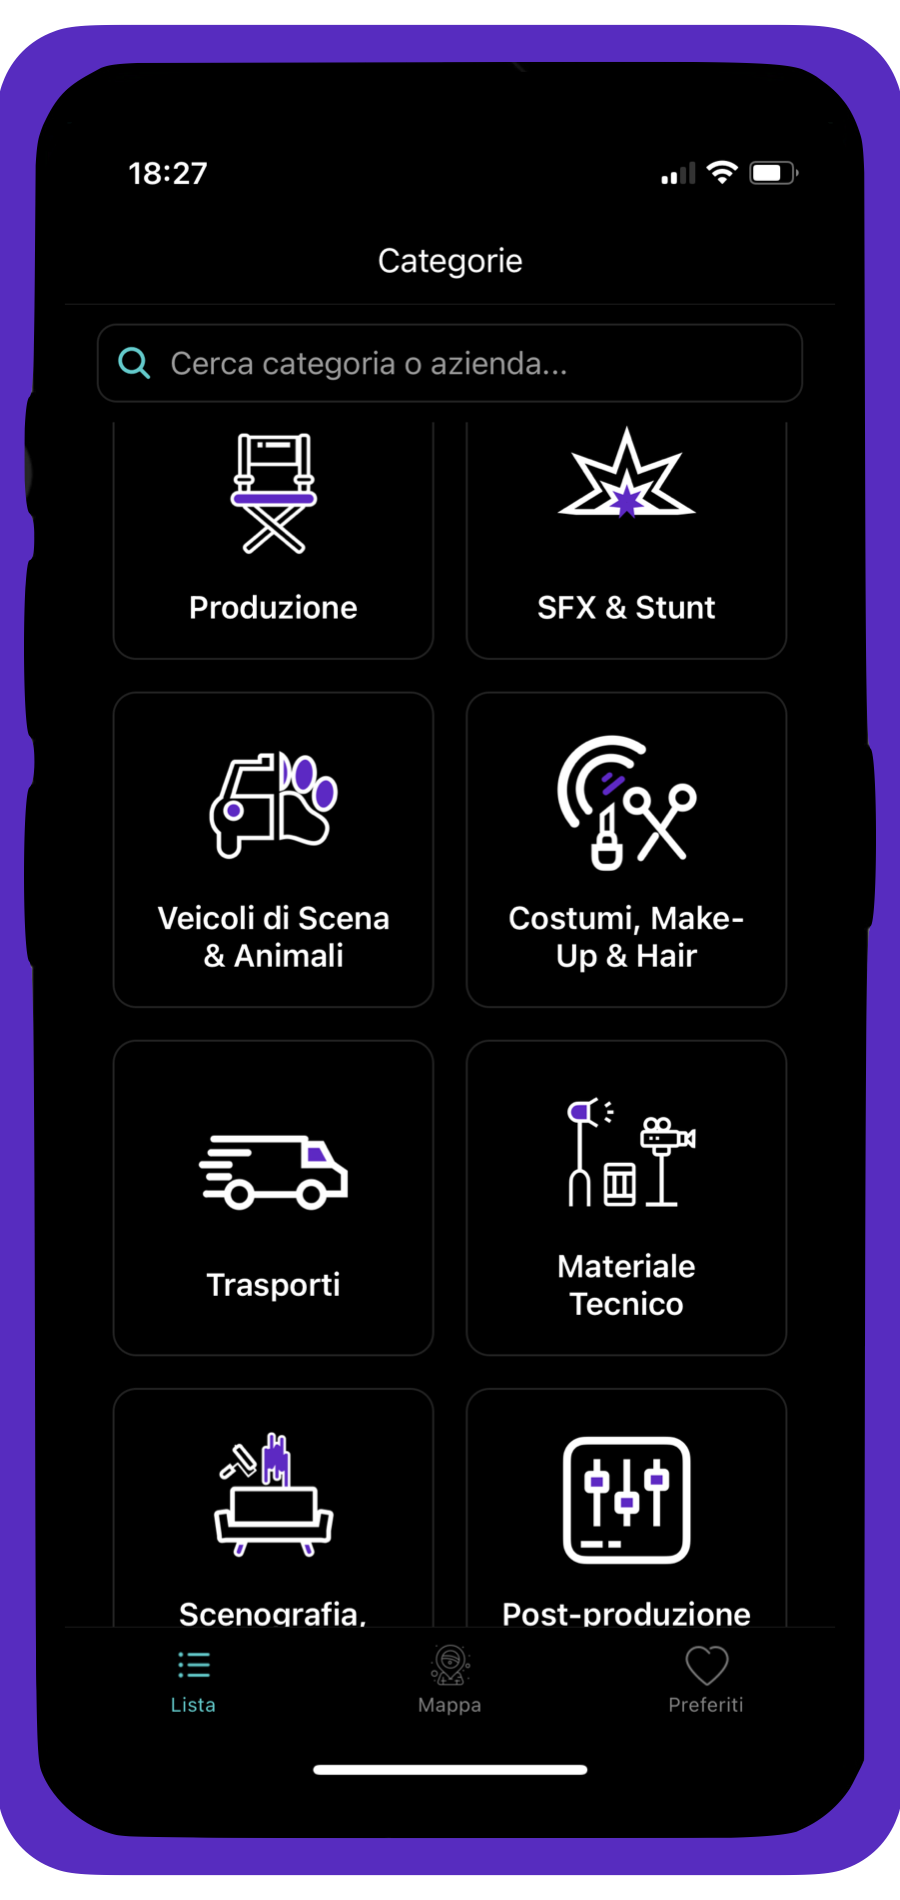
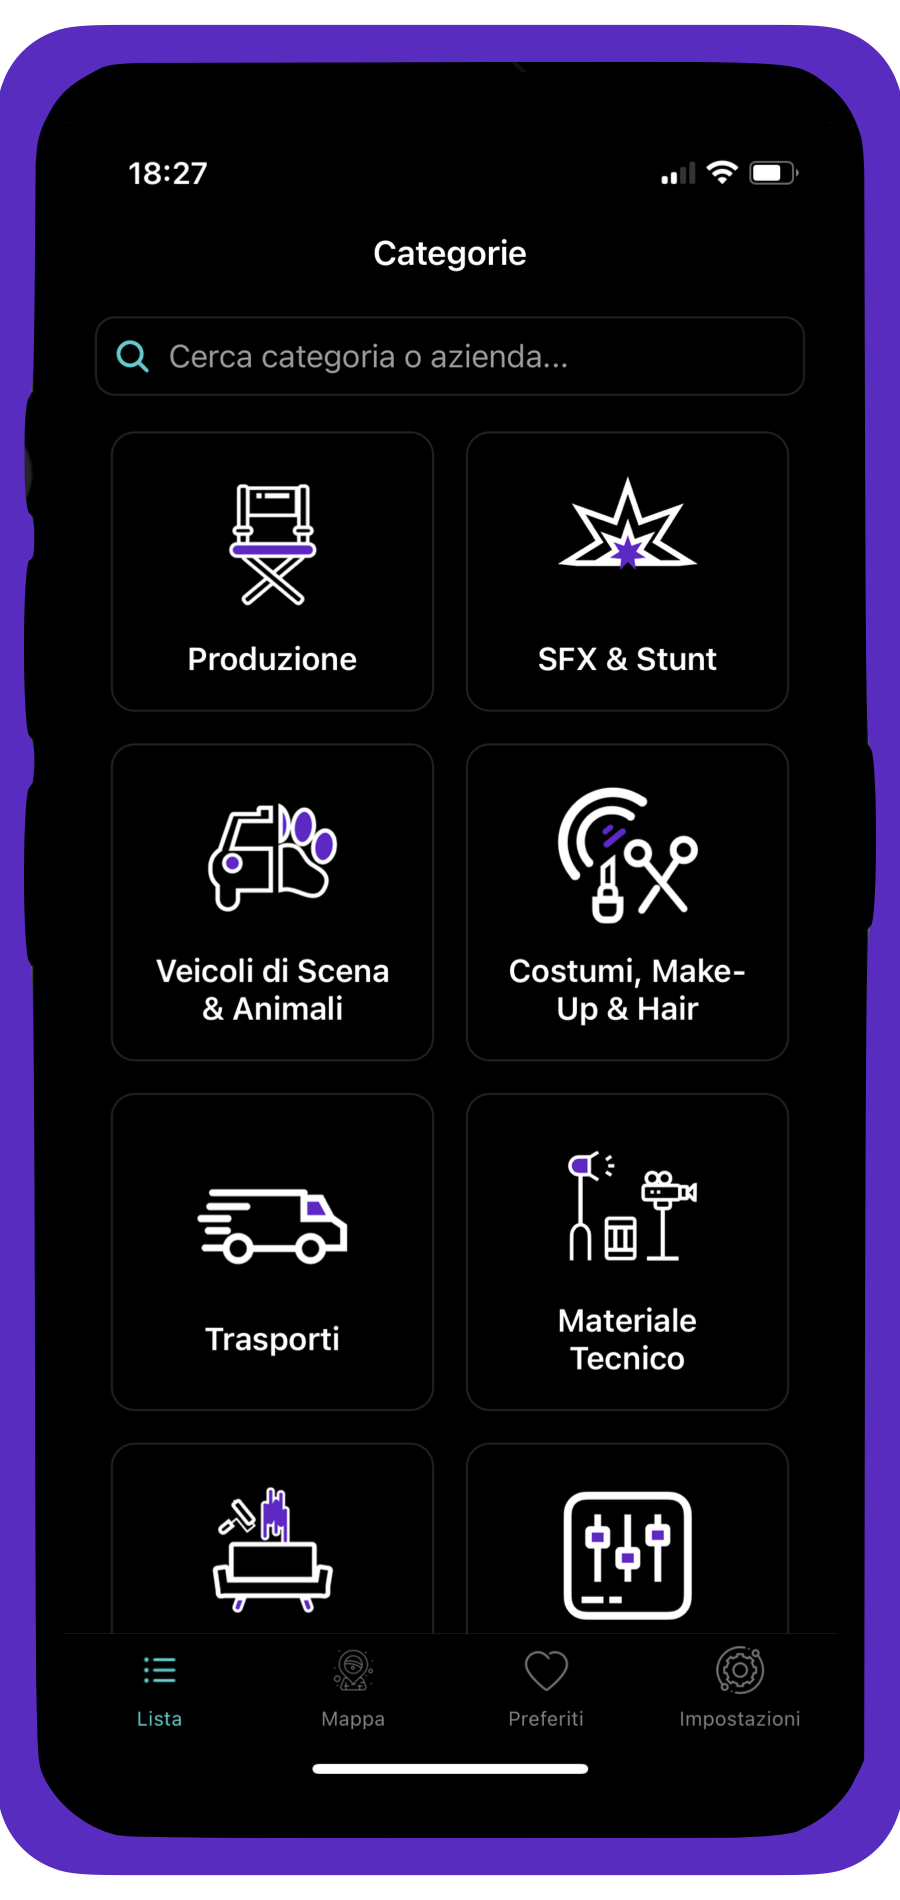
s

diff --git a/privacy-en.html b/privacy-en.html
@@ -1,0 +1,145 @@
+<!DOCTYPE html>
+<html lang="it">
+<head>
+  <meta charset="UTF-8">
+  <meta name="viewport" content="width=device-width, initial-scale=1">
+  <title>Privacy Policy</title>
+  <style>
+    body {
+      background-color: #000;
+      color: #fff;
+      font-family: system-ui, sans-serif;
+      max-width: 800px;
+      margin: 0 auto;
+      padding: 2rem;
+      line-height: 1.6;
+    }
+    h1, h2 {
+      color: #fff;
+      margin-top: 2rem;
+      margin-bottom: 1rem;
+    }
+    p {
+      margin-bottom: 1rem;
+    }
+    ul {
+      margin-bottom: 1rem;
+      padding-left: 1.5rem;
+    }
+    a {
+      color: #28CCCB;
+      text-decoration: underline;
+    }
+    footer {
+      text-align: center;
+      margin-top: 3rem;
+      font-size: 0.9rem;
+      color: #aaa;
+    }
+  </style>
+</head>
+<body>
+
+  <h1>Privacy Policy</h1>
+<p><em>pursuant to EU Regulation 2016/679 – GDPR</em></p>
+
+<h2>1. About Us</h2>
+<p><strong>filMapp</strong> is operated by <strong>filMapp</strong>, based in Rome.<br>
+For any inquiries, please write to:
+<a href="mailto:[email redacted]">[email redacted]</a>.
+</p>
+
+<h2>2. Types of Data Processed</h2>
+<h3>2.1 Data Voluntarily Provided by the User</h3>
+<p>During the registration and use of the Application, the user provides the following personal data necessary for authentication:</p>
+<ul>
+  <li>email address;</li>
+  <li>access credentials (password stored in encrypted form).</li>
+</ul>
+<p>This data is used exclusively for account creation and management, secure authentication, and providing the core features of the Application (such as saving favorites and password resets).</p>
+
+<h3>2.2 Data Collected from Public Sources</h3>
+<p>We process exclusively data obtained from publicly accessible online sources, related to multimedia content, information, and activities, such as:</p>
+<ul>
+  <li>descriptive information, titles, and information sheets;</li>
+  <li>web links and public URLs available on the internet;</li>
+  <li>any information already published online required for the app's core linking functionalities.</li>
+</ul>
+
+<h3>2.3 Automatically Collected Data</h3>
+<p>The Application may automatically and anonymously collect technical information necessary for the proper functioning of the software, including:</p>
+<ul>
+  <li>device type and operating system;</li>
+  <li>technical identifiers not directly linkable to the user;</li>
+  <li>system logs and data related to the use of the Application.</li>
+</ul>
+
+<h2>3. Third-Party Service Providers</h2>
+<p>The Application uses the third-party service <strong>Supabase</strong> for secure management of authentication, databases, and user sessions (including password reset services). Registration data is transmitted to and hosted on Supabase's secure servers in full compliance with the GDPR.</p>
+
+<h2>4. Purposes of Processing</h2>
+<p>The data is used to:</p>
+<ul>
+  <li>ensure the proper functioning of the Application and secure access to restricted areas;</li>
+  <li>manage credential recovery and password reset procedures;</li>
+  <li>include public information within the free filMapp platform through linking features;</li>
+  <li>analyze the use of the Application in an aggregate and anonymous form to improve its features.</li>
+</ul>
+
+<h2>5. Legal Basis</h2>
+<p>The processing of data is based on:</p>
+<ul>
+  <li>the performance of contractual or pre-contractual measures (Art. 6, par. 1, b GDPR) to allow the user to register, access, and use the Application's services;</li>
+  <li>the legitimate interest of the Data Controller (Art. 6, par. 1, f GDPR) to inform and include public data within the platform and to ensure the technical security of the software.</li>
+</ul>
+
+<h2>6. Geolocation and In-App Purchases</h2>
+<p>The Application does not collect precise real-time location data, does not contain in-app purchases, and does not engage in profiling or tracking for advertising purposes.</p>
+
+<h2>7. Processing Methods and Security</h2>
+<p>Data is processed using IT tools, protected by appropriate technical and organizational security measures (including encryption protocols and secure HTTPS connections), and stored in a manner that guarantees confidentiality.</p>
+
+<h2>8. Data Retention</h2>
+<p>Account data (email) is retained for as long as the account remains active. The user can request its deletion at any time. Aggregate and anonymous technical data may be retained for statistical and diagnostic purposes.</p>
+
+<h2>9. Data Sharing</h2>
+<p>Personal data will not be transferred or sold to third parties for commercial purposes under any circumstances. It may be disclosed to third parties only if required by explicit legal obligations or to prevent fraudulent activities and technical flaws.</p>
+
+<h2>10. Data Transfer Outside the EU</h2>
+<p>Cloud infrastructure and authentication services (Supabase) may process data on servers located inside or outside the European Union. Any transfer takes place in compliance with Art. 44 et seq. of the GDPR through the adoption of Standard Contractual Clauses approved by the European Commission.</p>
+
+<h2>11. Rights of the Data Subject</h2>
+<p>Pursuant to Articles 15–22 of the GDPR, you have the right at any time to:</p>
+<ul>
+  <li>request access, rectification, update, or total erasure of your data (right to be forgotten);</li>
+  <li>request the restriction of processing or object to it for legitimate reasons;</li>
+  <li>lodge a complaint with the Data Protection Authority.</li>
+</ul>
+<p>To exercise your rights, please write to:
+<a href="mailto:[email redacted]">[email redacted]</a>.
+</p>
+
+<h2>12. Account Deletion and Opt-Out</h2>
+<p>The user can stop all data processing by uninstalling the Application from their device. Furthermore, the user can request the permanent deletion of their profile and associated email from the databases by contacting the Data Controller at the email address provided above.</p>
+
+<h2>13. Changes to this Policy</h2>
+<p>Any updates will be published on this page with a revision date.</p>
+
+<strong>Email:</strong> <a href="mailto:[email redacted]">[email redacted]</a><br>
+<strong>Last modified:</strong> 16/05/2026</p>
+
+  <footer>
+    <a href="index-en.html">← Back to Home</a>
+  </footer>
+
+  <!-- Footer -->
+  <footer>
+    <img src="images/logo.png" alt="Logo App" style="width:80px; height:80px; margin-bottom:10px; border-radius:8px; display:block; margin-left:auto; margin-right:auto;">
+    <p style="margin:5px 0;">©2026 filMapp. All Rights Reserved.</p>
+    <p style="margin:5px 0;">
+      <a href="privacy-en.html">Privacy Policy</a> | <a href="terms-en.html">Terms & Conditions</a>
+    </p>
+  </footer>
+
+</body>
+</html>

diff --git a/terms-en.html b/terms-en.html
@@ -1,0 +1,104 @@
+<!DOCTYPE html>
+<html lang="it">
+<head>
+  <meta charset="UTF-8">
+  <meta name="viewport" content="width=device-width, initial-scale=1">
+  <title>Terms and Conditions of Use</title>
+  <style>
+    body {
+      background-color: #000;
+      color: #fff;
+      font-family: system-ui, sans-serif;
+      max-width: 800px;
+      margin: 0 auto;
+      padding: 2rem;
+      line-height: 1.6;
+    }
+    h1, h2 {
+      color: #fff;
+      margin-top: 2rem;
+      margin-bottom: 1rem;
+    }
+    p {
+      margin-bottom: 1rem;
+    }
+    ul {
+      margin-bottom: 1rem;
+      padding-left: 1.5rem;
+    }
+    a {
+      color: #28CCCB;
+      text-decoration: underline;
+    }
+    footer {
+      text-align: center;
+      margin-top: 3rem;
+      font-size: 0.9rem;
+      color: #aaa;
+    }
+  </style>
+</head>
+<body>
+
+  <h1>Terms and Conditions of Use</h1>
+<p><strong>Last updated:</strong> 15/05/2026</p>
+
+<p>Welcome to <strong>filMapp</strong> (“the App”). By using the App, you agree to these Terms and Conditions (“Terms”). Please read them carefully.</p>
+
+<h2>1. About Us</h2>
+<p><strong>filMapp</strong> is a project operated by <strong>filMapp</strong>, based in <strong>Rome</strong>.<br>
+For any inquiries, you can contact us via email: 
+<a href="mailto:[email redacted]">[email redacted]</a>.
+</p>
+
+<h2>2. Scope of the Service</h2>
+<p>The App collects and displays information regarding businesses and activities, obtained from publicly accessible online sources. The purpose is to offer users an overview of available services and to improve the online visibility of these businesses.</p>
+
+<h2>3. Acceptable Use</h2>
+<p>The user agrees to use the App lawfully and in compliance with these Terms, avoiding to:</p>
+<ul>
+  <li>use the data found through the App for unlawful purposes or spam,</li>
+  <li>violate the rights of third parties,</li>
+  <li>compromise the functioning of the App.</li>
+</ul>
+
+<h2>4. Content Ownership</h2>
+<ul>
+  <li>The content displayed (business names, addresses, contact details, etc.) comes from public sources.</li>
+  <li>The App does not claim any ownership rights over such information.</li>
+  <li>Trademarks, logos, and other distinctive signs belong to their respective owners.</li>
+</ul>
+
+<h2>5. Limitations of Liability</h2>
+<ul>
+  <li>We do our best to keep the data updated and accurate, but we do not guarantee its completeness or the absence of errors.</li>
+  <li>The App is provided “as is”, without any express or implied warranties.</li>
+  <li>We are not liable for any direct or indirect damages resulting from the use of the App or reliance on the published information.</li>
+</ul>
+
+<h2>6. Changes to the App and the Terms</h2>
+<p>We may modify or update the App and these Terms at any time. Any changes will be communicated by updating this page, indicating the revision date.</p>
+
+<h2>7. Governing Law</h2>
+<p>These Terms are governed by Italian law. In the event of disputes, the court of the place of residence or domicile of the user shall have jurisdiction, if located in Italy.</p>
+
+<h2>8. Contact Us</h2>
+<p>For questions or requests regarding these Terms, you can contact us at:<br>
+  <a href="mailto:[email redacted]">[email redacted]</a><br>
+</p>
+
+  <footer>
+    <a href="index-en.html">← Back to Home</a>
+  </footer>
+
+  <!-- Footer -->
+  <footer>
+    <img src="images/logo.png" alt="Logo App" style="width:80px; height:80px; margin-bottom:10px; border-radius:8px; display:block; margin-left:auto; margin-right:auto;">
+    <p style="margin:5px 0;">©2026 filMapp. All Rights Reserved.</p>
+    <p style="margin:5px 0;">
+      <a href="privacy-en.html">Privacy Policy</a> | <a href="terms-en.html">Terms & Conditions</a>
+    </p>
+  </footer>
+
+</body>
+</html>